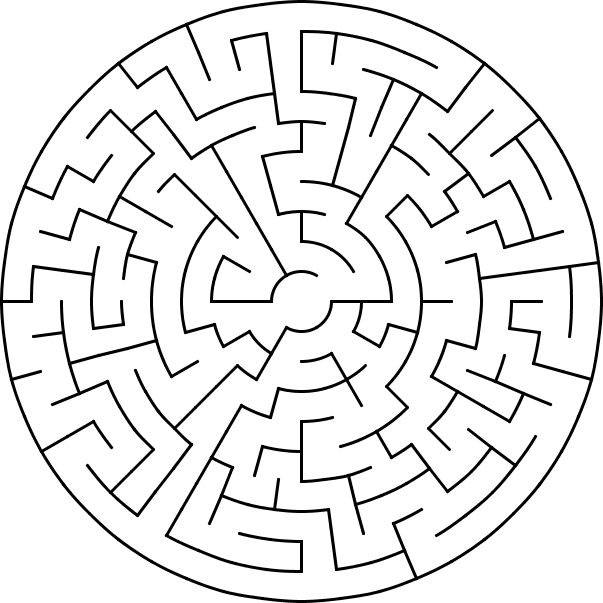
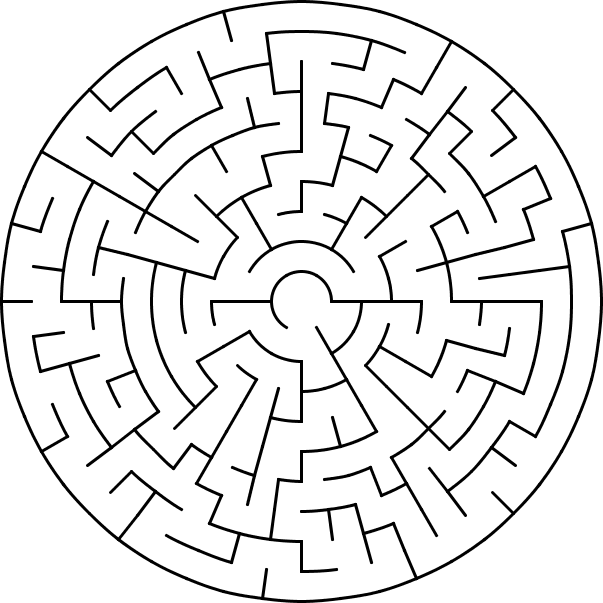
Updated readme maze images

diff --git a/src/main/kotlin/com/maltaisn/mazegen/MazeGenerator.kt b/src/main/kotlin/com/maltaisn/mazegen/MazeGenerator.kt
@@ -28,6 +28,7 @@ package com.maltaisn.mazegen
 import com.maltaisn.mazegen.maze.Maze
 import com.maltaisn.mazegen.maze.UnicursalOrthogonalMaze
 import java.io.File
+import java.text.NumberFormat
 import kotlin.system.measureTimeMillis
 
 
@@ -40,81 +41,84 @@ class MazeGenerator(private val config: Configuration) {
      * Generate, solve and export all mazes described by [config].
      */
     fun generate() {
-        for (i in 0 until config.mazeSets.size) {
-            val mazeSet = config.mazeSets[i]
+        val totalTime = measureTimeMillis {
+            for (i in 0 until config.mazeSets.size) {
+                val mazeSet = config.mazeSets[i]
 
-            var indent1 = ""
-            if (config.mazeSets.size > 1) {
-                println("Generating maze set '${mazeSet.name}' (${i + 1} / ${config.mazeSets.size})")
-                indent1 += "  "
-            }
-
-            for (j in 1..mazeSet.count) {
-                var filename = mazeSet.name
-                var indent2 = indent1
-                if (mazeSet.count > 1) {
-                    println(indent1 + "Generating maze $j / ${mazeSet.count}")
-                    indent2 += "  "
-                    filename += "-$j"
+                var indent1 = ""
+                if (config.mazeSets.size > 1) {
+                    println("Generating maze set '${mazeSet.name}' (${i + 1} / ${config.mazeSets.size})")
+                    indent1 += "  "
                 }
 
-                // Generate
-                print(indent2 + "Generating...\r")
-                var maze = mazeSet.creator()
-                var duration = measureTimeMillis {
-                    maze = generateMaze(maze, mazeSet)
-                }
-                println(indent2 + "Generated in $duration ms")
+                for (j in 1..mazeSet.count) {
+                    var filename = mazeSet.name
+                    var indent2 = indent1
+                    if (mazeSet.count > 1) {
+                        println(indent1 + "Generating maze $j / ${mazeSet.count}")
+                        indent2 += "  "
+                        filename += "-$j"
+                    }
 
-                if (mazeSet.separateExport) {
-                    print(indent2 + "Exporting maze...\r")
-                    duration = exportMaze(maze, filename)
-                    println(indent2 + "Exported maze in $duration ms")
-                }
-
-                // Solve
-                if (mazeSet.solve) {
-                    print(indent2 + "Solving...\r")
-                    duration = measureTimeMillis { maze.solve() }
-                    println(indent2 + "Solved in $duration ms")
+                    // Generate
+                    print(indent2 + "Generating...\r")
+                    var maze = mazeSet.creator()
+                    var duration = measureTimeMillis {
+                        maze = generateMaze(maze, mazeSet)
+                    }
+                    println(indent2 + "Generated in $duration ms")
 
                     if (mazeSet.separateExport) {
-                        print(indent2 + "Exporting solved maze...\r")
-                        duration = exportMaze(maze, "${filename}_solution")
-                        println(indent2 + "Exported solved maze in $duration ms")
+                        print(indent2 + "Exporting maze...\r")
+                        duration = exportMaze(maze, filename)
+                        println(indent2 + "Exported maze in $duration ms")
+                    }
+
+                    // Solve
+                    if (mazeSet.solve) {
+                        print(indent2 + "Solving...\r")
+                        duration = measureTimeMillis { maze.solve() }
+                        println(indent2 + "Solved in $duration ms")
+
+                        if (mazeSet.separateExport) {
+                            print(indent2 + "Exporting solved maze...\r")
+                            duration = exportMaze(maze, "${filename}_solution")
+                            println(indent2 + "Exported solved maze in $duration ms")
+                        }
+                    }
+
+                    // Distance map
+                    if (mazeSet.distanceMap) {
+                        if (mazeSet.separateExport && mazeSet.solve) {
+                            maze.clearSolution()
+                        }
+
+                        print("Generating distance map...\r")
+                        duration = measureTimeMillis {
+                            maze.generateDistanceMap(mazeSet.distanceMapStart)
+                        }
+                        println(indent2 + "Distance map generated in $duration ms")
+
+                        if (mazeSet.separateExport) {
+                            print(indent2 + "Exporting distance mapped maze...\r")
+                            duration = exportMaze(maze, "${filename}_distance_map")
+                            println(indent2 + "Exported distance mapped maze in $duration ms")
+                        }
+                    }
+
+
+
+                    if (!mazeSet.separateExport) {
+                        print(indent2 + "Exporting...\r")
+                        duration = exportMaze(maze, filename)
+                        println(indent2 + "Exported in $duration ms")
                     }
                 }
 
-                // Distance map
-                if (mazeSet.distanceMap) {
-                    if (mazeSet.separateExport && mazeSet.solve) {
-                        maze.clearSolution()
-                    }
-
-                    print("Generating distance map...\r")
-                    duration = measureTimeMillis {
-                        maze.generateDistanceMap(mazeSet.distanceMapStart)
-                    }
-                    println(indent2 + "Distance map generated in $duration ms")
-
-                    if (mazeSet.separateExport) {
-                        print(indent2 + "Exporting distance mapped maze...\r")
-                        duration = exportMaze(maze, "${filename}_distance_map")
-                        println(indent2 + "Exported distance mapped maze in $duration ms")
-                    }
-                }
-
-
-
-                if (!mazeSet.separateExport) {
-                    print(indent2 + "Exporting...\r")
-                    duration = exportMaze(maze, filename)
-                    println(indent2 + "Exported in $duration ms")
-                }
+                println()
             }
-
-            println()
         }
+        println("Done in ${NumberFormat.getInstance().format(totalTime / 1000.0)} s.")
     }
 
     /**

diff --git a/README.md b/README.md
@@ -14,30 +14,31 @@ java -jar mazegen.jar config-file [additional-config-files...]
 See [releases](https://github.com/maltaisn/mazegen/releases).
 
 ## Maze types
-- **Orthogonal**: normal maze type, square cells.<br>
-<img src="mazes\orthogonal_rb.png" alt="Orthogonal with Recursive Backtracker" height="200px"/> <img src="mazes\orthogonal_pr.png" alt="Orthogonal with Prim's" height="200px"/>
-    - **Weave**: variation that allows passages to go over and under others.<br><img src="mazes\weaveOrthogonal_rb.png" alt="Weave orthogonal with Recursive Backtracker" height="200px"/>
-    - **Unicursal**: variation with a single path spanning the entire maze, also called a labyrinth.<br><img src="mazes\unicursalOrthogonal_kr.png" alt="Unicursal orthogonal with Kruskal's" height="200px"/>
-- **Delta**: triangle cells, the maze can be shaped like a rectangle, a triangle, a hexagon or a rhombus.<br><img src="mazes\delta_rectangle_rb.png" alt="Rectangle delta with Recursive Backtracker" height="120px"/> <img src="mazes\delta_triangle_rb.png" alt="Triangle delta with Recursive Backtracker" height="120px"/> <img src="mazes\delta_hexagon_rb.png" alt="Hexagon delta with Recursive Backtracker" height="120px"/> <img src="mazes\delta_rhombus_rb.png" alt="Rhombus delta with Recursive Backtracker" height="120px"/>
-- **Sigma**: hexagon cells, the maze can be shaped like a rectangle, a triangle, a hexagon or a rhombus.<br><img src="mazes\sigma_rectangle_rb.png" alt="Rectangle sigma with Recursive Backtracker" height="140px"/> <img src="mazes\sigma_triangle_rb.png" alt="Triangle sigma with Recursive Backtracker" height="140px"/> <img src="mazes\sigma_hexagon_rb.png" alt="Hexagon sigma with Recursive Backtracker" height="140px"/> <img src="mazes\sigma_rhombus_rb.png" alt="Rhombus sigma with Recursive Backtracker" height="140px"/>
-- **Theta**: circle maze with adjustable center radius and cell subdivision parameter.<br><img src="mazes\theta_rb.png" alt="Theta with Recursive Backtracker" height="200px"/> <img src="mazes\theta_ab.png" alt="Theta with Aldous-Broder's" height="200px"/>
-- **Upsilon**: octogon and square cells.<br><img src="mazes\upsilon_rb.png" alt="Upsilon with Recursive Backtracker" height="200px"/> <img src="mazes\upsilon_wi.png" alt="Upsilon with Wilson's" height="200px"/>
-- **Zeta**: like orthogonal but allows diagonal passages.<br><img src="mazes\zeta_rb.png" alt="Zeta with Recursive Backtracker" height="200px"/> <img src="mazes\zeta_pr.png" alt="Zeta with Prim's" height="200px"/>
+ Name | Geometry | Description | Examples |
+ :--: | :------: | :---------: | :------: |
+**Orthogonal** | Orthogonal | Square cells on an orthogonal grid. | <img src="mazes\orthogonal_rb.png" height="120px"/> <img src="mazes\orthogonal_pr.png" height="120px"/>
+**Weave orthogonal** | Orthogonal | Orthogonal maze variation that allows passages to go over and under others. | <img src="mazes\weaveOrthogonal_rb.png" height="120px"/> <img src="mazes\weaveOrthogonal_ab.png" height="120px"/>
+**Unicursal orthogonal** | Orthogonal | Orthogonal maze variation with a single path spanning the entire maze, also called a labyrinth. | <img src="mazes\unicursalOrthogonal_kr.png" height="120px"/> <img src="mazes\unicursalOrthogonal_hk.png" height="120px"/>
+**Zeta** | Orthogonal | Orthogonal maze variation that allows diagonal passages. | <img src="mazes\zeta_rb.png" height="120px"/> <img src="mazes\zeta_pr.png" height="120px"/>
+**Upsilon** | Orthogonal | Octogon and square cells on an orthogonal grid. | <img src="mazes\upsilon_rb.png" height="120px"/> <img src="mazes\upsilon_wi.png" height="120px"/>
+**Delta** | Triangular | Triangle cells, the maze can be shaped like a rectangle, a triangle, a hexagon or a rhombus. | <img src="mazes\delta_rectangle_rb.png" height="120px"/> <img src="mazes\delta_triangle_rb.png" height="120px"/> <img src="mazes\delta_hexagon_rb.png" height="120px"/> <img src="mazes\delta_rhombus_rb.png" height="120px"/>
+**Sigma** | Hexagonal | Hexagon cells, the maze can be shaped like a rectangle, a triangle, a hexagon or a rhombus. | <img src="mazes\sigma_rectangle_rb.png" height="120px"/> <img src="mazes\sigma_triangle_rb.png" height="120px"/> <img src="mazes\sigma_hexagon_rb.png" height="120px"/> <img src="mazes\sigma_rhombus_rb.png" height="120px"/>
+**Theta** | Polar | Circle maze with adjustable center radius and cell subdivision parameter. | <img src="mazes\theta_rb.png" height="120px"/> <img src="mazes\theta_ab.png" height="120px"/>
 
 ## Generators
  Name | Supported maze types | Definition | Example | Distance map |
-:---: | :------------------: | ---------  | ------- | --------- |
-**Aldous-Broder's** | All | Performs a random walk, connecting the cells walked to if they were unvisited, until all cells are visited | <img src="mazes\orthogonal_ab.png" width="300px"/> | <img src="mazes\orthogonal_ab_cm.png" width="300px"/>
-**Binary Tree** | Orthogonal | Repeatedly carve passage north and east for each cell. The side bias can be changed. | <img src="mazes\orthogonal_bt.png" width="300px"/> | <img src="mazes\orthogonal_bt_cm.png" width="300px"/>
-**Eller's** | Orthogonal | Assign each cell of the first row to a different cell. For each row, randomly connect cells together if they are not in the same set, then carve at least one passage down for each set. | <img src="mazes\orthogonal_el.png" width="300px"/> | <img src="mazes\orthogonal_el_cm.png" width="300px"/>
-**Growing Tree** | All | Randomly walk around, connecting cells together, adding cells to a stack. When stuck, go back to a cell in the stack. The cell is chosen randomly between the newest, the oldest or a random cell. | <img src="mazes\orthogonal_gt.png" width="300px"/> | <img src="mazes\orthogonal_gt_cm.png" width="300px"/>
-**Hunt-and-kill** | All | Randomly walk around, connecting cells together. When stuck, scan the maze for an unvisited cell next to a visited cell and start again from there. | <img src="mazes\orthogonal_hk.png" width="300px"/> | <img src="mazes\orthogonal_hk_cm.png" width="300px"/>
-**Kruskal's** | All but zeta and weave orthogonal | Each cell start in a different set. Randomly remove walls between cells of different sets, merging their sets together. | <img src="mazes\orthogonal_kr.png" width="300px"/> | <img src="mazes\orthogonal_kr_cm.png" width="300px"/>
-**Prim's** | All | Starting with a random cell, add all of its unvisited neighbors to a "frontier" set, and connect it with one of them. Repeat that with a cell from the set until the maze is complete | <img src="mazes\orthogonal_pr.png" width="300px"/> | <img src="mazes\orthogonal_pr_cm.png" width="300px"/>
-**Recursive Backtracker** | All | Randomly walk around, connecting cells together, adding cells to a stack. When stuck, pop a cell from the stack and continue walking. | <img src="mazes\orthogonal_rb.png" width="300px"/> | <img src="mazes\orthogonal_rb_cm.png" width="300px"/>
-**Recursive Division** | Orthogonal | Recursively divide the maze area in two, carving a passage in the wall made. | <img src="mazes\orthogonal_rd.png" width="300px"/> | <img src="mazes\orthogonal_rd_cm.png" width="300px"/>
-**Sidewinder** | Orthogonal | For each cell in each row, randomly carve passage east or north | <img src="mazes\orthogonal_sw.png" width="300px"/> | <img src="mazes\orthogonal_sw_cm.png" width="300px"/>
-**Wilson's** | All but zeta and weave orthogonal | Similar to Aldous-Broder's. Performs a random walk until a visited cell is found. Carve the path used to get there and mark the cells as visited. Start walking again from a random cell. | <img src="mazes\orthogonal_wi.png" width="300px"/> | <img src="mazes\orthogonal_wi_cm.png" width="300px"/>
+ :--: | :------------------: | :--------: | :-----: | :----------: |
+**Aldous-Broder's** | All | Performs a random walk, connecting the cells walked to if they were unvisited, until all cells are visited | <img src="mazes\orthogonal_ab.png" width="300px"/> | <img src="mazes\orthogonal_ab_distance_map.png" width="300px"/>
+**Binary Tree** | Orthogonal | Repeatedly carve passage north and east for each cell. The side bias can be changed. | <img src="mazes\orthogonal_bt.png" width="300px"/> | <img src="mazes\orthogonal_bt_distance_map.png" width="300px"/>
+**Eller's** | Orthogonal | Assign each cell of the first row to a different cell. For each row, randomly connect cells together if they are not in the same set, then carve at least one passage down for each set. | <img src="mazes\orthogonal_el.png" width="300px"/> | <img src="mazes\orthogonal_el_distance_map.png" width="300px"/>
+**Growing Tree** | All | Randomly walk around, connecting cells together, adding cells to a stack. When stuck, go back to a cell in the stack. The cell is chosen randomly between the newest, the oldest or a random cell. | <img src="mazes\orthogonal_gt.png" width="300px"/> | <img src="mazes\orthogonal_gt_distance_map.png" width="300px"/>
+**Hunt-and-kill** | All | Randomly walk around, connecting cells together. When stuck, scan the maze for an unvisited cell next to a visited cell and start again from there. | <img src="mazes\orthogonal_hk.png" width="300px"/> | <img src="mazes\orthogonal_hk_distance_map.png" width="300px"/>
+**Kruskal's** | All but zeta and weave orthogonal | Each cell start in a different set. Randomly remove walls between cells of different sets, merging their sets together. | <img src="mazes\orthogonal_kr.png" width="300px"/> | <img src="mazes\orthogonal_kr_distance_map.png" width="300px"/>
+**Prim's** | All | Starting with a random cell, add all of its unvisited neighbors to a "frontier" set, and connect it with one of them. Repeat that with a cell from the set until the maze is complete | <img src="mazes\orthogonal_pr.png" width="300px"/> | <img src="mazes\orthogonal_pr_distance_map.png" width="300px"/>
+**Recursive Backtracker** | All | Randomly walk around, connecting cells together, adding cells to a stack. When stuck, pop a cell from the stack and continue walking. | <img src="mazes\orthogonal_rb.png" width="300px"/> | <img src="mazes\orthogonal_rb_distance_map.png" width="300px"/>
+**Recursive Division** | Orthogonal | Recursively divide the maze area in two, carving a passage in the wall made. | <img src="mazes\orthogonal_rd.png" width="300px"/> | <img src="mazes\orthogonal_rd_distance_map.png" width="300px"/>
+**Sidewinder** | Orthogonal | For each cell in each row, randomly carve passage east or north | <img src="mazes\orthogonal_sw.png" width="300px"/> | <img src="mazes\orthogonal_sw_distance_map.png" width="300px"/>
+**Wilson's** | All but zeta and weave orthogonal | Similar to Aldous-Broder's. Performs a random walk until a visited cell is found. Carve the path used to get there and mark the cells as visited. Start walking again from a random cell. | <img src="mazes\orthogonal_wi.png" width="300px"/> | <img src="mazes\orthogonal_wi_distance_map.png" width="300px"/>
 
 ## Configuration
 The generator is configured with a JSON file. There are many attributes but most of them are optional. 
